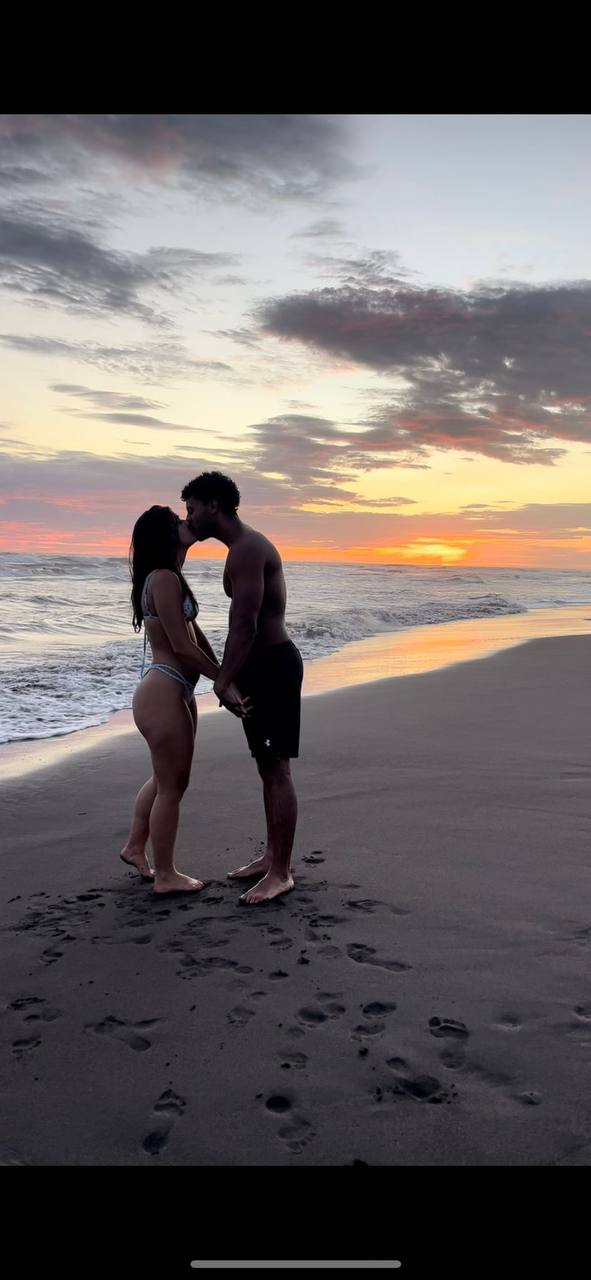
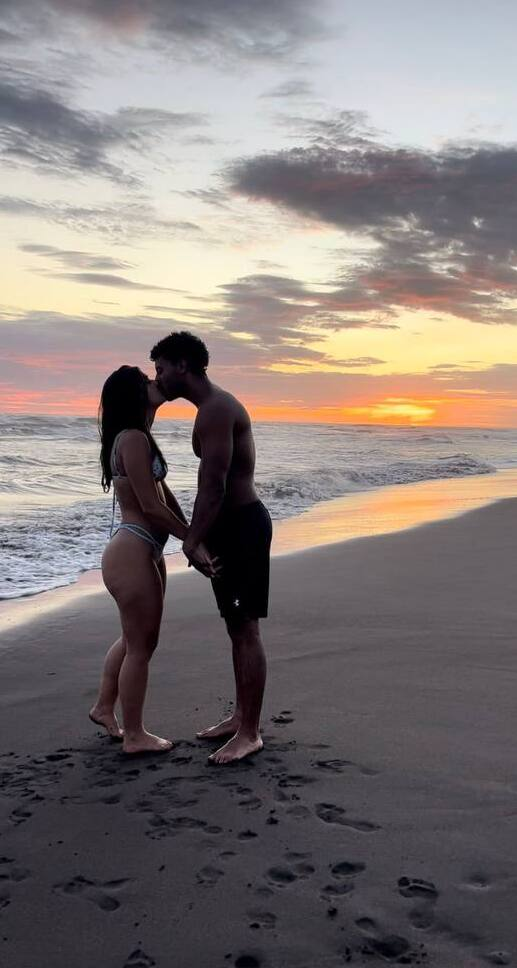
Complete flow

diff --git a/src/components/MessageGallery.tsx b/src/components/MessageGallery.tsx
@@ -35,17 +35,25 @@ const messages = [
 const MessageGallery: React.FC<MessageGalleryProps> = ({ onFinish }) => {
     const [currentIndex, setCurrentIndex] = useState(0);
     const [showImage, setShowImage] = useState(false);
+    const [isFading, setIsFading] = useState(false);
 
     const nextMessage = () => {
         if (!showImage) {
             setShowImage(true);
         } else {
-            setShowImage(false);
-            if (currentIndex < messages.length - 1) {
-                setCurrentIndex(currentIndex + 1);
-            } else {
-                onFinish();
-            }
+            // We are on an image, moving to the next card
+            setIsFading(true);
+
+            setTimeout(() => {
+                setShowImage(false);
+                if (currentIndex < messages.length - 1) {
+                    setCurrentIndex(currentIndex + 1);
+                } else {
+                    onFinish();
+                }
+                // Short delay to allow state to update before fading back in
+                setTimeout(() => setIsFading(false), 50);
+            }, 300); // Wait for fade out
         }
     };
 
@@ -54,8 +62,15 @@ const MessageGallery: React.FC<MessageGalleryProps> = ({ onFinish }) => {
             setShowImage(false);
         } else {
             if (currentIndex > 0) {
-                setCurrentIndex(currentIndex - 1);
-                setShowImage(true);
+                setIsFading(true);
+                setTimeout(() => {
+                    setCurrentIndex(currentIndex - 1);
+                    setShowImage(true); // Should we go back to image or text? Usually text is safer but logic says image. 
+                    // Let's go to text for consistency? Or stick to previous logic (showImage: true). 
+                    // Previous logic: setCurrentIndex(prev); setShowImage(true);
+                    // Let's keep it but fade.
+                    setTimeout(() => setIsFading(false), 50);
+                }, 300);
             }
         }
     };
@@ -64,9 +79,9 @@ const MessageGallery: React.FC<MessageGalleryProps> = ({ onFinish }) => {
         <div className="flex flex-col items-center justify-center min-h-screen bg-rose-50 p-6">
             <h2 className="text-xl font-bold text-pink-400 mb-8 uppercase tracking-widest">Mis Razones</h2>
 
-            <div className="relative w-full max-w-sm aspect-[4/5] perspective-1000">
+            <div className={`relative w-full max-w-sm aspect-[4/5] perspective-1000 transition-all duration-500 ease-in-out ${isFading ? 'opacity-0 translate-y-4' : 'opacity-100 translate-y-0'}`}>
                 <div
-                    className={`relative w-full h-full transition-transform duration-700 transform-style-3d ${showImage ? 'rotate-y-180' : ''}`}
+                    className={`relative w-full h-full transform-style-3d ${!isFading ? 'transition-transform duration-700' : ''} ${showImage ? 'rotate-y-180' : ''}`}
                 >
                     {/* Front Face (Text) */}
                     <div className="absolute w-full h-full bg-white rounded-2xl shadow-xl p-8 flex flex-col justify-center items-center text-center backface-hidden">

diff --git a/src/components/FinalScreen.tsx b/src/components/FinalScreen.tsx
@@ -31,7 +31,7 @@ const FinalScreen: React.FC<FinalScreenProps> = ({ onRestart }) => {
                 className="flex items-center gap-2 text-gray-500 hover:text-pink-500 transition-colors text-sm"
             >
                 <RefreshCcw size={16} />
-                Volver a vivirlo
+                Si quieres puedes repetirlo haha
             </button>
 
             <footer className="absolute bottom-4 text-xs text-gray-400">
